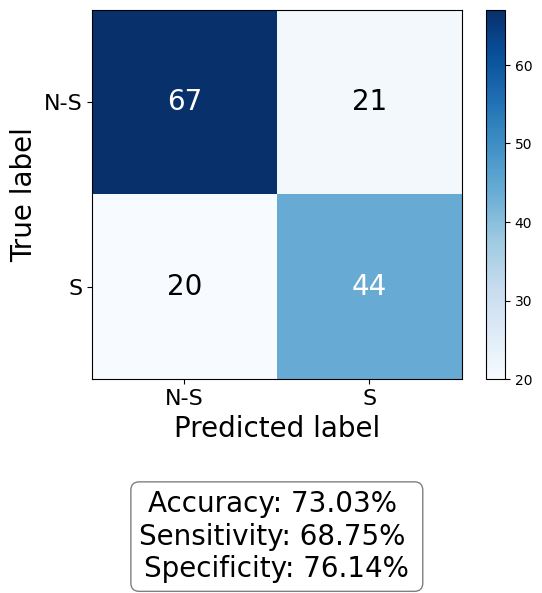
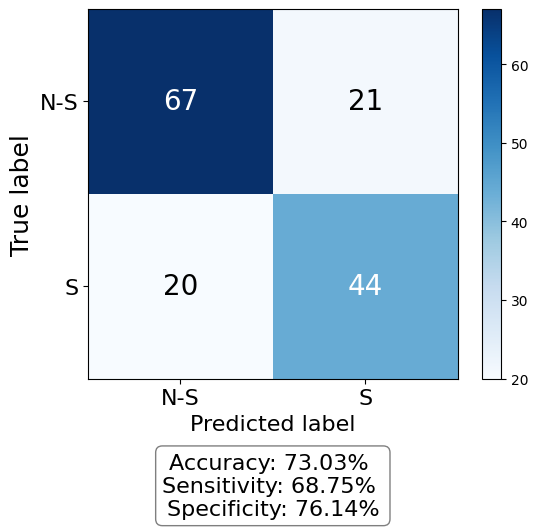
PRETTY CONF MATRIX YAY

diff --git a/utils/metrics.py b/utils/metrics.py
@@ -163,8 +163,8 @@ def plot_confusion_matrix(
         ax.axes.get_yaxis().set_ticks([])
         ax.axes.get_xaxis().set_ticks([])
 
-    plt.xlabel("Predicted label", fontsize=20)
-    plt.ylabel("True label", fontsize=20)
+    plt.xlabel("Predicted label", fontsize=16)
+    plt.ylabel("True label", fontsize=18)
     return fig, ax
 
     
@@ -190,8 +190,8 @@ def plot_conf_matrix_and_stats(conf_matrix):
     textstr = f"Accuracy: {round(accuracy,2)}% \nSensitivity: {round(sensitivity,2)}% \nSpecificity: {round(specificity,2)}%"
     props = dict(boxstyle='round', facecolor='white', alpha=0.5)
     xpos = 0.5
-    ypos = -0.3
-    ax.text(xpos, ypos, textstr, transform=ax.transAxes, fontsize=20,
+    ypos = -0.2
+    ax.text(xpos, ypos, textstr, transform=ax.transAxes, fontsize=16,
             verticalalignment='top', bbox=props, ha='center')
 
     plt.show()
